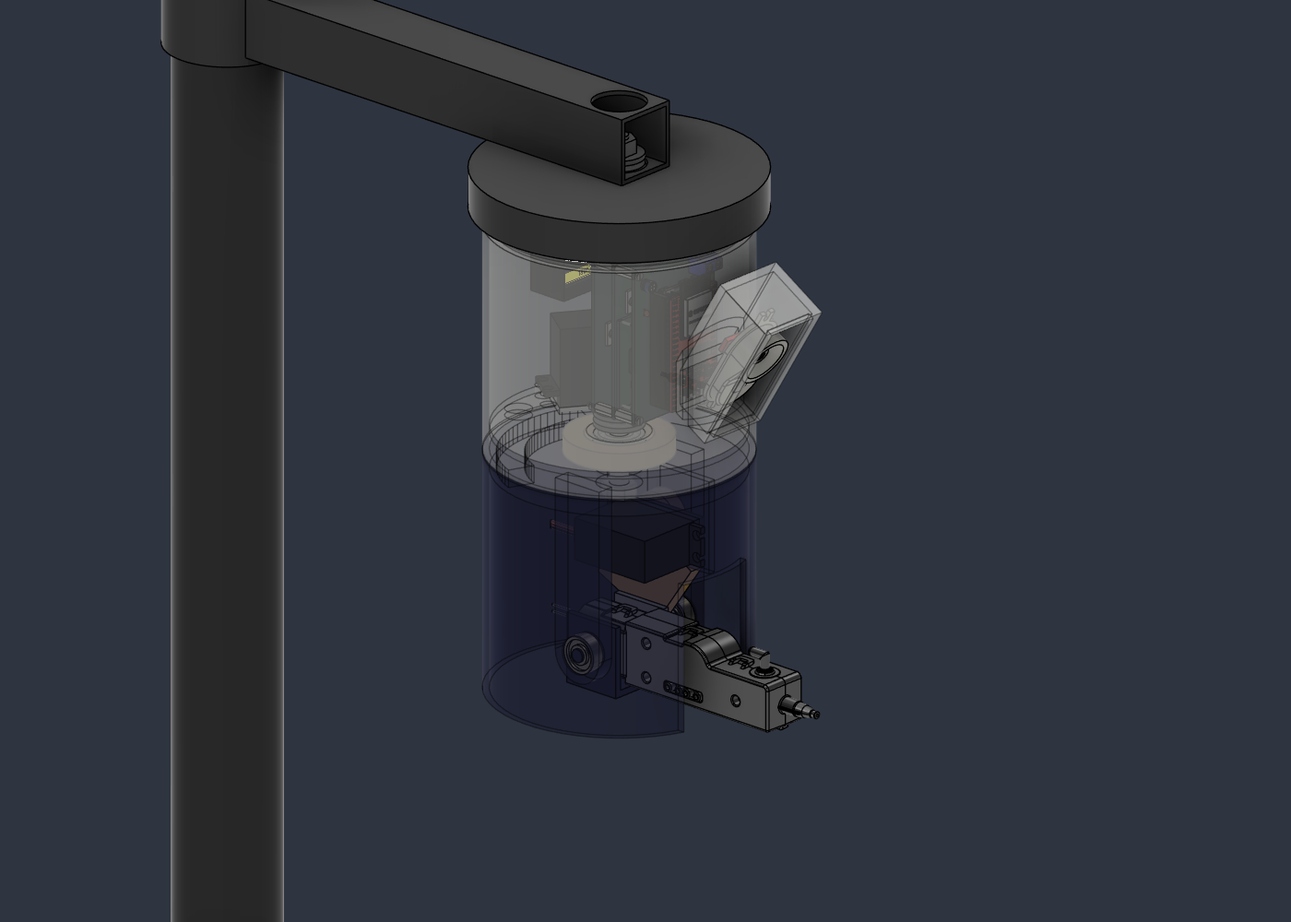
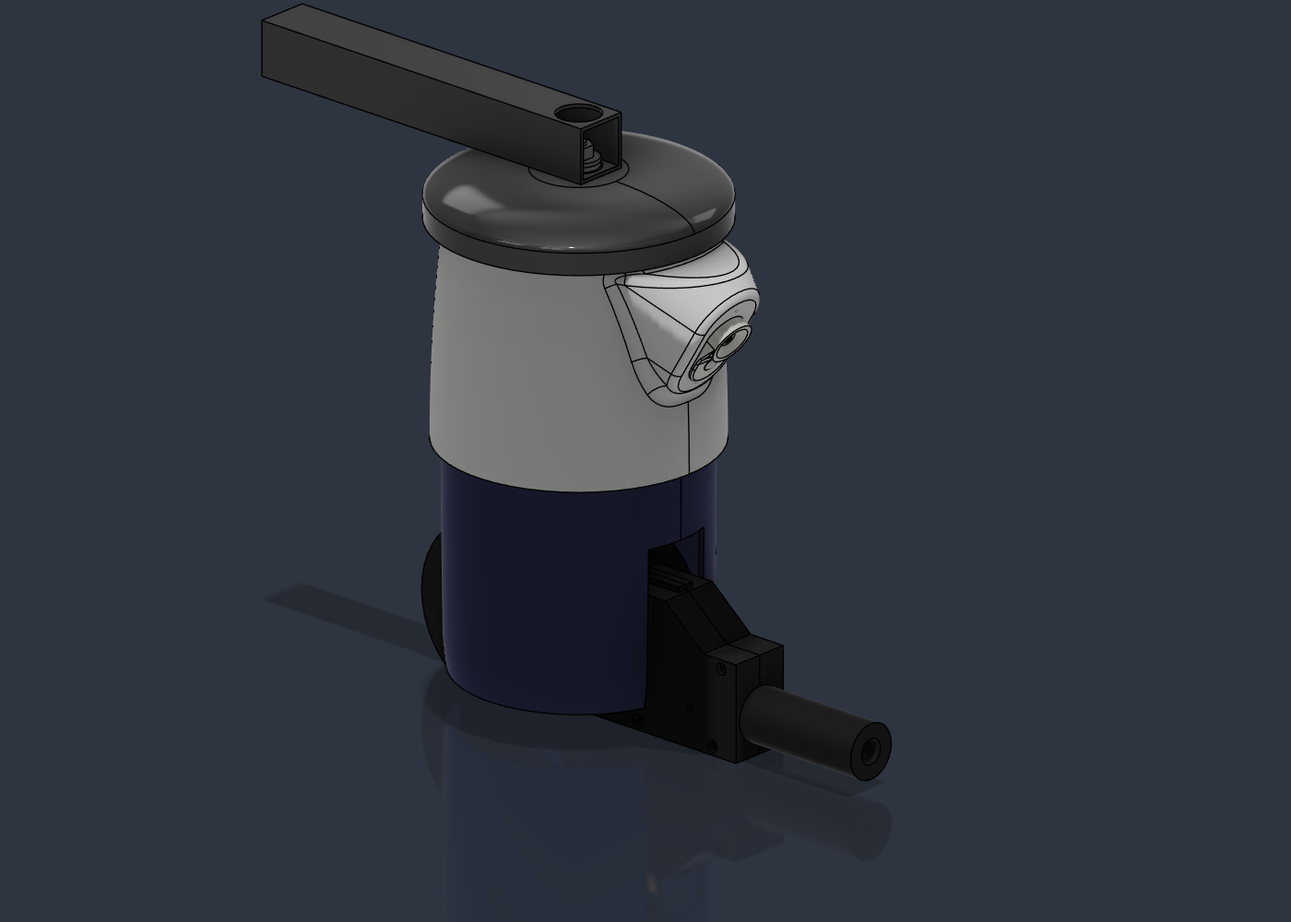
Docs: water tower de una sola barriga (sombrero Ø156, cuerpo Ø149, tambor Ø138), soporte de la pistola para los dos kits de Bambu Lab, sema en una placa paralela dentro de un morro 20 mm más adelante y renders nuevos

Changed region(s): [[0.1843, 0.0, 0.7064, 0.868], [0.1229, 0.0, 0.2457, 1.0]]

diff --git a/3D/water-tower/README.md b/3D/water-tower/README.md
@@ -1,11 +1,16 @@
 # water tower — prototipo "farola"
 
-Diseño de Fusion **`water tower prototipo`**, en el proyecto *water tower* (junto a las piezas que usa: `torreta placas`, `sema`, 3 × `DM996 diymore`, `Electric Water Spray Kit 02`, rodamientos y tornillería).
+Diseño de Fusion **`water tower prototipo`**, en el proyecto *water tower* (junto a las piezas que usa: `sema`, 3 × `DM996 diymore`, `Electric Water Spray` con el Kit 01 y el Kit 02, rodamientos y tornillería). Tiene la columna colgada del brazo y los componentes ocultos `Campo de visión cámara` y `Alcance pistola`.
+
+Para que pese menos, las placas van en el componente `Torreta placas (simple)`: es una copia de `torreta placas` en la que la Freenove solo conserva las piezas de más de 2 mm (placa, módulo, pines, conectores y USB-C). Las placas de pistola, servos y control, el TPS63020 y la tornillería van enteras. La torre pasa de 799 a 176 cuerpos. Si cambia `torreta placas`, la copia no se entera: hay que volver a sacarla.
+
+El conjunto final es el diseño **`huerta`**, en la misma carpeta: el poste, la huerta, la valla y las referencias de la vista de la cámara, con `water tower prototipo` metido como referencia en su sitio. Para trabajar en la columna se abre `water tower prototipo`, que pesa mucho menos; `huerta` se pone al día con *Actualizar referencias*.
 
 | | |
 | --- | --- |
 | <img src="img/render-iso.png" width="420" alt="Prototipo colgado del brazo"> | <img src="img/render-abajo.png" width="420" alt="Prototipo visto desde abajo"> |
-| <img src="img/render-lado.png" width="420" alt="De lado, con el tambor transparente: torreta y sema arriba, pistola y DM996 de tilt abajo"> | <img src="img/render-dentro.png" width="420" alt="Desde abajo con el tambor transparente: M8, DM996 de tilt y cuna de la pistola"> |
+| <img src="img/render-lado.png" width="420" alt="De lado, con el tambor transparente: torreta y sema arriba, soporte de la pistola y DM996 de tilt abajo"> | <img src="img/render-dentro.png" width="420" alt="Desde abajo con el tambor transparente: M8, DM996 de tilt y soporte de la pistola"> |
+| <img src="img/render-atras.png" width="420" alt="Desde atrás: la cola del soporte asoma por la ranura de detrás del tambor"> | |
 
 ## Dónde va
 
@@ -17,31 +22,34 @@ El poste va desplazado a la derecha para que la pistola llegue a la esquina de l
 
 ## Cómo está montado
 
-Es una columna de Ø116 × 227 mm colgada del brazo: arriba el **cuerpo** con la electrónica y debajo el **tambor** con la pistola, del mismo diámetro. El cuerpo hace de techo de la pistola.
+Es una columna de 257 mm de alto colgada del brazo: arriba el **cuerpo** (Ø149 abajo) con la electrónica y debajo el **tambor** (Ø138 arriba) con la pistola. El cuerpo y el plato del tambor hacen de techo de la pistola.
+
+Las tres piezas van de mayor a menor hacia abajo y encajan unas dentro de otras como tejas, para que la lluvia no entre por las juntas: el ala del sombrero (Ø156) baja 15 mm por fuera de la boca del cuerpo (Ø132), y el faldón del cuerpo (Ø149) baja 15 mm por fuera de la boca del tambor (Ø138). El agua que cae por una pieza gotea por fuera de la de abajo. El cuerpo y el tambor no son cilindros: sus paredes son revoluciones de 3 mm y juntos forman **una sola barriga**, con lo más ancho en la junta: el cuerpo se abre hacia abajo y el tambor se cierra hacia abajo.
 
 - **Soporte fijo (farola):**
-  - Poste Ø48 y brazo de tubo cuadrado de 30.
-  - Un *sombrero* Ø128 con faldón tapa los engranajes del pan.
-- **Cuerpo (pan del conjunto):** Ø116 × 118 mm.
-  - Dentro, delante, va la torreta de placas en vertical.
-  - La `sema` va **delante de la torreta**, inclinada `cam_inclinacion` (31°), y asoma 42 mm fuera del cilindro dentro de un *morro*. El morro tiene la ventana de la lente y del PIR en la cara de delante. Así la electrónica y la cámara quedan juntas delante y luego se puede cerrar todo en un recinto.
+  - Poste Ø48 (en el diseño `huerta`) y brazo de tubo cuadrado de 30.
+  - Un *sombrero* de Ø156 tapa los engranajes del pan. Es plano arriba hasta R25 (donde apoyan el brazo y el axial), cae en curva hasta el ala y el ala baja hasta 16 mm por debajo de su cara de abajo. Por dentro queda a 9 mm de la boca del cuerpo.
+- **Cuerpo (pan del conjunto):** 133 mm de alto. Es la mitad de arriba del barril: Ø132 arriba, donde entra en el sombrero, y se abre en una curva sin cintura hasta Ø149 en el faldón, lo más ancho. La tapa entra por arriba y apoya en un escalón.
+  - Dentro, delante, va la torreta de placas en vertical. Va tan adelante que la Freenove se mete en el hueco del morro, a 4,9 mm de su pared, y así sigue a la misma distancia de la `sema`.
+  - La `sema` va **delante de la torreta**, inclinada `cam_inclinacion` (31°), y asoma fuera de la pared dentro de un *morro*. Como en la caja de la cámara (`cam/interior`), la `sema` entra por detrás en una **placa plana paralela a ella**: la pestaña apoya en la cara de dentro, lo de delante asoma por una ventana en estadio (R12,6, la de `case v2`) y dos agujeros ciegos de Ø2,2 recogen sus tornillos. La placa es un estadio de 42 × 73 mm a 31° y queda casi entera fuera del barril: solo su borde de abajo entra ≈1,5 mm, y ahí un rebaje poco profundo, abierto 20° hacia delante, la deja al aire. Arriba la placa sobresale unos 43 mm y el morro llega a 111 mm del eje, 33 mm más allá del ala del sombrero. El morro se abre 20° desde la placa hacia la pared y no tiene cantos vivos: la placa, el rebaje y el techo tienen el borde redondeado R5, la unión con el cuerpo es de R10 y la pared de 3 mm sigue los redondeos. El techo del morro queda a 18,5 mm bajo el sombrero. Así la electrónica y la cámara quedan juntas delante y luego se puede cerrar todo en un recinto.
   - La faja de la cámara va del conector de la Freenove a la `sema`: en línea recta son 34 mm, y la faja mide 75.
   - El DM996 del pan va detrás de la torreta, colgado de la tapa. Su piñón (z20) rueda alrededor del engranaje fijo (z30) del sombrero. Con 180° de servo da ±60°, y para que la cámara vea toda la huerta hace falta de −31° a +57° (ver [Qué ve la cámara](#qué-ve-la-cámara-a-3-m)).
   - Como el servo gira con el cuerpo, no hace falta anillo rozante.
-  - Por debajo del suelo, la pared del cuerpo baja 8 mm más como faldón y tapa los engranajes del pan de la pistola.
-- **Tambor de la pistola (pan de la pistola):** Ø116 × 100 mm, abierto por abajo.
+  - Por debajo del suelo, la pared del cuerpo baja 24 mm más como faldón: tapa los engranajes del pan de la pistola y los 15 mm de arriba del tambor.
+- **Tambor de la pistola (pan de la pistola):** Ø138 × 138 mm, abierto por abajo. El diámetro y el alto los pide el soporte de la pistola, para que no lleve muescas (ver [Soporte de la pistola](#soporte-de-la-pistola)).
+  - Es la mitad de abajo del barril: arriba mide Ø138 y entra 15 mm en el faldón del cuerpo, y se va cerrando sin quiebros hasta Ø136 en el eje de tilt (lo que pide el sector) y Ø132 en el borde de abajo.
   - Cuelga del suelo del cuerpo por un M8 y gira sobre el mismo eje que el conjunto.
   - El DM996 del pan de la pistola va en el cuerpo, boca abajo sobre el suelo, y saca el eje por una ventana del suelo. Su piñón (z21) mueve el engranaje z48 que el tambor lleva sobre su plato. Da ±39°.
   - Va girado de modo que el cuerpo del servo queda hacia atrás, a lo largo de la pared, y no hacia el eje: así queda a 12,6 mm del axial y a 12,8 del 22-8-7 (con el servo recto quedaba a 1 mm).
-  - Delante tiene una ranura de 39 mm de ancho (`pist_ranura`) por la que asoma la boquilla y que deja subir y bajar la pistola. Llega hasta 45 mm por encima del eje de tilt y deja unos 7 mm a cada lado de la pistola, para un envoltorio.
+  - Delante tiene una ranura de 41 mm de ancho (`pist_ranura`) por la que asoma el soporte de la pistola. Llega hasta 64 mm por encima del eje de tilt, para que el riel no toque el borde con la pistola 15° hacia arriba.
+  - Detrás tiene otra ranura de 41 mm (`pist_ranura_atras`) por la que asoma la cola del soporte. Va del fondo del tambor hasta el plato, porque la cola sube al bajar el morro.
   - Hay un pasacables en arco en el plato (±48°) para la manguera y los cables.
 - **Pistola (tilt):**
-  - Va en una cuna que gira en dos 17-6-6 en los brazos del tambor. Está centrada con la cámara: la boquilla queda en el mismo plano vertical que la lente.
+  - Va en un soporte con forma de arma que sirve para los dos kits de Bambu Lab y está dibujado dentro de `Electric Water Spray` (ver [Soporte de la pistola](#soporte-de-la-pistola)). Gira en dos 22-8-7 en los brazos del tambor (ojos de Ø30) y está centrado con la cámara: la boquilla queda en el mismo plano vertical que la lente.
   - El DM996 de tilt va tumbado encima de la pistola, entre los dos brazos, con el eje sobre el eje de tilt. Cuelga del plato por un soporte con ventana, como en el brazo de smart-sentry.
-  - Mueve un sector z72 de la cuna con un piñón z24 (3:1), como el sector de tilt de smart-sentry. Da 60° de recorrido: de 15° hacia arriba a 45° hacia abajo.
-  - El servo va 48 mm por encima del eje (`a_tilt`) para dejar sitio a un envoltorio de la pistola. En todo el recorrido, la pistola queda como mínimo a 13,8 mm del servo (en los dos extremos) y a 24 mm con la pistola horizontal.
-  - Sin contar el servo, la pistola podría girar de unos 27° hacia arriba (toca el borde de arriba de la ranura) a 72° hacia abajo (toca el servo).
-  - El eje de tilt pasa por el bloque del motor, así la parte de atrás apenas sube al bajar la boquilla.
+  - Mueve un sector z117 del soporte con un piñón z47 (2,49:1), como el sector de tilt de smart-sentry. Da 60° de recorrido, de 15° hacia arriba a 45° hacia abajo, con 149° de servo. El sector solo tiene dientes de 70° a 140°: el piñón engrana de 75° a 135° y así las puntas no tocan la pared del tambor.
+  - El servo va 82 mm por encima del eje (`a_tilt`), lo bastante lejos para que la cola del soporte pase por debajo a +45° sin recortarla: queda a 3 mm del servo. El piñón queda 1,5 mm por debajo del plato, y eso es lo que fija el alto del tambor (`pist_caida` 108 mm).
+  - Con 3:1 (z123/z41) haría falta un tambor de Ø142, porque las puntas del sector tocarían la pared.
 
 Los engranajes son cilindros con el **diámetro primitivo** (m·z), de modo que los de cada pareja se tocan justo en la línea de engrane.
 
@@ -66,9 +74,36 @@ En smart-sentry el axial está entre la base y la parte que gira porque el peso 
 | --- | --- | --- | --- |
 | Pan del conjunto | 30 / 20 | 1,5:1 | ±60° |
 | Pan de la pistola | 48 / 21 | 2,29:1 | ±39° |
-| Tilt de la pistola | 72 / 24 (sector) | 3:1 | 60° (−15° / +45°) |
+| Tilt de la pistola | 117 / 47 (sector) | 2,49:1 | 60° (−15° / +45°) con 149° |
 
 La pistola apunta a la suma de los dos pan: ±99° respecto al brazo. La huerta queda entre −67° y +84°, así que el giro sobra. Lo que limita es el alcance del chorro (ver [Hasta dónde llega la pistola](#hasta-dónde-llega-la-pistola)).
+
+### Soporte de la pistola
+
+El diseño `Electric Water Spray` lleva el [Kit 01 y el Kit 02](../../esphome/docs/bambulab-water-spray-kits.md) superpuestos, con la boquilla en el mismo sitio, y el soporte está dibujado ahí mismo, en el componente `Soporte pistolas`. La torre inserta `Electric Water Spray` directamente en la raíz, sin componente intermedio: la articulación `Tilt pistola (DM996)` va de `Electric Water Spray` al tambor, y el círculo del eje está en un boceto del tambor (`eje tilt pistola`). Para cambiar el soporte se edita `Electric Water Spray` y luego se actualiza la referencia en la torre.
+
+El soporte sirve para los dos kits: se monta uno u otro sin cambiar nada más. El origen de `Soporte pistolas` está en el eje de tilt, con X hacia delante (por donde sale el agua) y Z hacia arriba.
+
+| | |
+| --- | --- |
+| <img src="img/soporte-pistola-lado.png" width="420" alt="Soporte de la pistola desde el lado del sector: cajón con riel, disco con el sector de tilt encima, cola redonda y cañón"> | <img src="img/soporte-pistola-atras.png" width="420" alt="Soporte visto desde atrás: disco con el sector de tilt, joroba sobre el eje y salida de la manguera en la cola"> |
+| <img src="img/soporte-pistola-kit01.png" width="420" alt="Mitad −Y del soporte con el Kit 01 dentro, vista desde el lado del corte"> | <img src="img/soporte-pistola-kit02.png" width="420" alt="Mitad −Y del soporte con el Kit 02 dentro, vista desde el lado del corte"> |
+| <img src="img/soporte-pistola-tilt45.png" width="420" alt="De lado con la pistola 45° hacia abajo: la cola sube por detrás del DM996 de tilt sin tocarlo"> | |
+
+- **Forma:** un cajón de 35 mm de ancho con el guardamanos más bajo delante, un riel arriba, una joroba redonda sobre el eje y un cañón. El techo es plano a 38 mm sobre el eje desde el guardamanos hasta la cola, que es redonda y está achaflanada 2 mm arriba.
+- **Sin muescas:** la versión anterior tenía recortado todo lo que barrían el DM996 de tilt y el plato, y el motor del Kit 01 quedaba al aire. Ahora el tambor es más alto y más ancho y el servo va 20 mm más lejos del eje, así que la carcasa va entera. En todo el recorrido queda a 3 mm del servo y a 1,8 mm de sus cables, aunque salgan rectos hacia atrás.
+- **Cañón:** es una pieza aparte, un tubo de Ø30 × 75 mm. Se encaja en una espiga de Ø20 que sale 15 mm por delante de la carcasa, con 0,2 mm de holgura. Como la espiga está partida en las dos mitades, el cañón también las mantiene juntas por delante. El agua sale por un ánima de Ø14 y no toca el cañón: la boquilla acaba dentro de la espiga, 9,5 mm antes del ánima. Se puede pegar o dejar a presión.
+- **Posición de la pistola:** el eje de tilt queda 127,5 mm detrás de la punta de la boquilla y 15 mm por encima de ella. La boca del cañón queda 197 mm por delante del eje, y la cola sale 90 mm por detrás, por la ranura de detrás del tambor.
+- **Sector en la carcasa:** la mitad `+Y` lleva un disco de R53,5 que va de su cara de fuera hasta la cara de fuera del sector (16,5 mm) y baja hasta la cara de abajo. El sector de dientes (R58,5, de 70° a 140°) sale por encima del disco. Así el sector forma parte de la carcasa en lugar de colgar de un buje, y la mitad se imprime sin soportes. El disco no puede ser más grande: a esa distancia del centro, la pared del tambor queda a 55,4 mm del eje.
+- **Hueco de las dos pistolas:** es la unión de los dos kits con 0,5 mm de holgura. Cada kit queda a 0,34 mm o más de las paredes.
+- **Cómo se sujeta cada kit:**
+  - **Kit 01:** sus dos resaltes de Ø6 entran en dos alojamientos de una mitad. En la otra mitad, dos tornillos M3 se roscan en la pared y la punta entra en sus agujeros de Ø3.
+  - **Kit 02:** apoya contra la pared de delante. Tres tornillos M4 se roscan en las paredes y la punta entra en sus agujeros cónicos de Ø4,3. Sus dos pivotes de Ø4,5 entran en alojamientos.
+- **Manguera (5/3 mm):** las tomas de agua de los dos kits son espigas de Ø4 en el plano de la boquilla que miran hacia atrás, a 37–48 mm de la punta. Desde ahí, un canal de 7 mm de ancho sube por delante del Kit 01, pasa por encima de los kits y sale hacia atrás por la cola. Va partido entre las dos mitades.
+- **Sin agujeros para cables:** se resolverá más adelante por dónde salen.
+- **Dos mitades**, partidas en el plano vertical de la boquilla (`Carcasa -Y` y `Carcasa +Y (sector)`). Cada mitad lleva su eje de Ø8 para el 22-8-7, y la `+Y` lleva también el disco y el sector. Se cierran con cinco tornillos M3: la cabeza va en la mitad `-Y` y la tuerca en la `+Y`. Donde está el disco, el alojamiento de la tuerca lo atraviesa.
+- **Impresión:** las dos mitades se imprimen de pie, sobre la cara de abajo, que es plana. Así el hueco de los kits queda abierto de lado, y el disco y el sector suben desde la cama sin soportes. La espiga del cañón y los ejes salen en horizontal, pero son pequeños.
+- **El cañón casi no sale en la imagen de la cámara:** solo a −15° tapa el 5 % de abajo (ver [La imagen de la cámara](#la-imagen-de-la-cámara)). La carcasa no sale nunca.
 
 ## Cambiar cosas
 
@@ -79,33 +114,38 @@ Todo está en *Modificar → Cambiar parámetros*:
 | `modulo` | 1 mm | Diámetro de todos los engranajes y distancias entre ejes |
 | `z_fijo`, `z_pinon` | 30, 20 | Pan del conjunto (`a_pan` se recalcula sola) |
 | `z_eng_pist`, `z_pin_pist` | 48, 21 | Pan de la pistola (`a_pist`) |
-| `z_eng_tilt`, `z_pin_tilt` | 72, 24 | Tilt de la pistola (`a_tilt`) |
+| `z_eng_tilt`, `z_pin_tilt` | 117, 47 | Tilt de la pistola (`a_tilt`) |
+| `cuerpo_d`, `cuerpo_cuello_d`, `cuerpo_faldon_d` | 149, 132, 149 mm | Cuerpo abajo (lo más ancho), arriba y faldón (= `cuerpo_d`) |
+| `tambor_d`, `tambor_cuello_d` | 136, 138 mm | Tambor en el eje de tilt y en la boca (lo más ancho) |
 | `casquillo_d`, `buje_rod_d` | 12, 28 mm | Casquillos de los 22-8-7 y buje del 22-8-7 bajo el suelo |
 | `plato_esp` | 8 mm | Grosor del plato del tambor |
-| `pist_caida` | 78 mm | Del plato del tambor al eje de tilt |
-| `pist_ranura` | 39 mm | Ancho de la ranura del tambor por la que asoma la pistola |
+| `pist_caida` | 108 mm | Del plato del tambor al eje de tilt |
+| `pist_ranura` | 41 mm | Ancho de la ranura del tambor por la que asoma el soporte de la pistola |
+| `pist_ranura_atras` | 41 mm | Ancho de la ranura de detrás del tambor por la que asoma la cola del soporte de la pistola |
 | `pist_y` | 0 mm | Desplazamiento de la pistola hacia un lado (0: centrada con la cámara) |
-| `pist_eng_y` | 22.5 mm | Cara interior del sector de tilt; deja sitio al DM996 de tilt entre los brazos |
-| `pist_mejilla`, `pist_brazo_esp` | 13.5, 8 mm | Anchura de la cuna y grosor de los brazos |
-| `sombrero_d`, `sombrero_esp` | cuerpo_d + 12, 10 mm | Sombrero (su grosor aloja el 22-8-7) |
+| `pist_eng_y` | 27 mm | Cara interior del sector de tilt; deja sitio al DM996 de tilt entre los brazos |
+| `pist_mejilla`, `pist_brazo_esp` | 18, 8 mm | Media anchura del soporte de la pistola (mide 35 mm) y grosor de los brazos |
+| `sombrero_d`, `sombrero_esp` | 156, 10 mm | Ala del sombrero y alto de su parte plana (aloja el 22-8-7) |
 | `brazo_largo`, `poste_d` | 200, 48 mm | Farola |
 
 Hay cosas que no siguen a los parámetros:
 
 - **Piezas insertadas:** los servos, la pistola, las placas y la cámara. Si cambias los dientes, hay que mover a mano el servo correspondiente para que su eje caiga en el centro del piñón.
-- **Lo que depende de la torreta, la `sema` y los servos:** su posición, `cuerpo_d`, `caja_fondo`, el morro y la ventana. Se calcularon al generar el modelo, así que cambiar `cam_inclinacion` o los dientes no basta: hay que volver a generarlo.
+- **El soporte de la pistola:** está en `Electric Water Spray`, con medidas fijas. Los ejes y el sector usan `modulo`, `z_eng_tilt`, `pist_eng_y`, `ancho_pist`, `pist_brazo_in`, `pist_brazo_in_n` y `pist_brazo_esp`, pero son **copias** de los de la torre en los parámetros de `Electric Water Spray`: si se cambian aquí, hay que cambiarlos también allí.
+- **Lo que depende de la torreta, la `sema` y los servos:** su posición, `caja_fondo`, el morro y la ventana. Se calcularon al generar el modelo, así que cambiar `cam_inclinacion` o los dientes no basta: hay que volver a generarlo.
+- **Los perfiles curvos** del sombrero, el cuerpo y el tambor son splines calculadas con los diámetros de la tabla al generarlos: cambiar `cuerpo_d`, `tambor_d` o `sombrero_d` no los mueve.
 
 Las tres articulaciones (`Pan conjunto` ±60°, `Pan pistola` ±39°, `Tilt pistola` −15°/+45°, positivo hacia abajo) se pueden arrastrar para comprobar los barridos.
 
-Se comprobaron las colisiones en el centro, en los dos extremos y en dos poses cruzadas, sin la Freenove. Solo se solapan los ejes de los servos con sus piñones, que es lo esperado.
+Se comprobaron las colisiones en el centro, en los dos extremos y en dos poses cruzadas, sin la Freenove. Solo se solapan los ejes de los servos con sus piñones, que es lo esperado. El tilt se ha barrido cada 5° de −15° a +45° con el soporte y los dos kits, ya con el tambor más grande. El soporte queda a 3 mm del servo y a 1,8 mm de sus cables, que en el modelo salen rectos hacia atrás. Con el tambor deja 1,5 mm (el disco del sector con la pared), salvo a +45°: ahí la mitad `+Y` pasa de lado a 0,5 mm de la placa que sujeta el DM996 de tilt. Los kits quedan a 5,7 mm o más del plato.
 
-Lo que más se acerca a la pared del cuerpo o del tambor (radio interior 55 mm): la torreta a 54 mm, el DM996 del pan de la pistola a 50,3, la cola de la pistola a 46,1 y el DM996 de tilt a 42,3.
+Lo que más se acerca a la pared del cuerpo (radio interior de 63 mm arriba a 71,5 en el faldón): la torreta, que entra en el morro y queda a 4,9 mm de su pared, y el DM996 del pan de la pistola a 50,3. El tambor tiene de 66 a 63 mm de radio interior, de arriba abajo. El DM996 de tilt queda a 44,6 y la ranura del plato llega a 52. La `sema` toca la placa del morro solo con la pestaña. Entre el faldón del cuerpo y la boca del tambor quedan 2,5 mm de lado, y en los extremos de los dos pan el sombrero, el cuerpo y el tambor quedan a 1 mm o más.
 
 El componente oculto **Campo de visión cámara** dibuja los rayos de la cámara hacia el suelo.
 
 ## Qué ve la cámara a 3 m
 
-El componente fijo **Huerta** pone en el suelo (3 m bajo la lente) tres cosas:
+Los componentes de esta sección (`Huerta`, `Valla huerta` y `Referencias vista cámara`) están en el diseño `huerta`. El componente fijo **Huerta** pone en el suelo (3 m bajo la lente) tres cosas:
 
 - **Huerta** (verde): el contorno de `3D/huerta.STEP` con el poste en su sitio.
 - **Barrido cámara (pan ±60)** (azul): todo lo que llega a ver la cámara moviendo el pan del conjunto de un extremo a otro.
@@ -147,7 +187,7 @@ Estas vistas salen desde la lente, con la misma inclinación (31°) y el mismo c
 - **Arriba** llega a unos 17 m: el horizonte no entra en la imagen.
 - **Mirando al frente**, el borde de lejos de la huerta (6,6 m) queda a un tercio de la imagen desde arriba. Lo de encima es suelo de fuera. Ese margen hace falta a +55°, donde el extremo de la izquierda está a 16–18 m y queda cerca del borde de arriba.
 - **A −30°** entra la esquina de la derecha entera, con la valla en las dos caras.
-- **La pistola no sale en la imagen**: la boquilla queda 77° por debajo de la horizontal vista desde la lente, y el borde de abajo de la imagen está a 52°.
+- **El cañón de la pistola casi no sale en la imagen.** Solo con la pistola del todo hacia arriba (−15°) tapa el 5 % de abajo. Desde −10° no sale, y la carcasa no sale nunca. Antes de bajar el eje de tilt 30 mm tapaba el 24 % a −15° y salía hasta −5°.
 
 ## Hasta dónde llega la pistola
 
@@ -167,17 +207,18 @@ En las vistas de esta sección están apagadas las capas de la cámara.
 **Cómo se ha calculado:**
 
 - El chorro se trata como un tiro con rozamiento cuadrático, ajustado a las [medidas en banco](../../esphome/docs/bambulab-water-spray-kits.md#medidas-en-banco): desde 1,3 m cae a ~5 m a 0° y a ~7 m a 20° hacia arriba. Eso da 13 m/s de salida y k ≈ 0,15 /m.
-- La boquilla está a 2,85 m del suelo y 113 mm por delante del eje de tilt.
+- La boquilla está a 2,80 m del suelo y 128 mm por delante del eje de tilt.
+- Es el alcance medido con el Kit 02. El del Kit 01 no se ha medido.
 
 Las medidas se hicieron con la pistola en su carcasa de fábrica. Montada en la torreta, con otra manguera y otra alimentación, hay que volver a medirla.
 
 | Tilt | Cae a | Altura máxima del chorro |
 | --- | --- | --- |
-| −15° (arriba) | 7,8 m | 3,3 m |
-| 0° | 6,7 m | 2,85 m |
-| +15° | 5,1 m | 2,82 m |
-| +30° | 3,6 m | 2,79 m |
-| +45° (abajo) | 2,4 m | 2,77 m |
+| −15° (arriba) | 7,8 m | 3,25 m |
+| 0° | 6,7 m | 2,80 m |
+| +15° | 5,1 m | 2,77 m |
+| +30° | 3,6 m | 2,74 m |
+| +45° (abajo) | 2,4 m | 2,72 m |
 
 El chorro alcanza de **2,4 a 7,8 m** del eje en todo el giro:
 
@@ -206,12 +247,17 @@ Vista desde la cámara, la zona de tiro (morado) llega hasta unos 8 m. Mirando a
 ## Pendiente
 
 - Medir el alcance con la pistola ya en la torreta y recalcular la zona de tiro. Con el alcance de banco, la pistola cubre el 48 % de la huerta y no llega al extremo de la izquierda; para eso haría falta más presión u otro poste.
-- Sujeción de la pistola en la cuna: va apoyada en el fondo y entre las mejillas; falta una brida o un tornillo.
-- Recinto cerrado para la torreta y la `sema`: el morro ya envuelve la `sema`, pero ni su ventana ni el cuerpo son estancos.
+- Soporte de la pistola:
+  - Comprobar en la pieza impresa que los tornillos que hacen de pasador sujetan bien cada kit.
+  - Medir el alcance del Kit 01.
+  - A +45°, la mitad `+Y` pasa a 0,5 mm de la placa que sujeta el DM996 de tilt. Si roza, quitar algo de la placa por abajo.
+  - Por dónde salen los cables del soporte. La manguera sale hacia atrás por la cola y por la ranura de detrás del tambor; falta decidir por dónde sube al plato.
+  - Las imágenes del alcance de esta página y el componente `Alcance pistola` son de antes del soporte. La boquilla ha bajado 45 mm y ha avanzado 14 mm; la zona de tiro casi no cambia (los datos de las tablas ya son los nuevos).
+- Recinto cerrado para la torreta y la `sema`: el morro ya envuelve la `sema`, pero ni su ventana ni el cuerpo son estancos (falta una junta entre la pestaña de la `sema` y la placa).
 - Manguera y cables:
   - Entran por el pasacables de la tapa, bajan por el del suelo y pasan al tambor por el arco del plato.
   - Fuera del sombrero necesitan un bucle de holgura, porque el conjunto gira ±60°. Entre el suelo y el plato no hace falta: el arco del plato abarca ±48° y el tambor gira ±39°.
   - La pistola no aspira 3 m, así que el depósito tiene que ir arriba, junto al brazo.
-- Engranajes de módulo 1 con DM996: con el servo bloqueado, el par puede romper los dientes impresos del piñón de tilt (z24). En uso normal la carga es pequeña.
+- Engranajes de módulo 1 con DM996: con el servo bloqueado, el par puede romper los dientes impresos del piñón de tilt (z47). En uso normal la carga es pequeña.
 - El casquillo de la tapa (Ø12 con paso de 8,5) tiene paredes de 1,75 mm. Solo trabaja a compresión, pero conviene imprimirlo macizo.
-- Exterior: el sombrero tapa los engranajes del pan del conjunto, el faldón del cuerpo los de la pistola y el cuerpo hace de tejado del tambor. La ranura de delante del tambor y su fondo quedan abiertos.
+- Exterior: el sombrero tapa los engranajes del pan del conjunto y el faldón del cuerpo los de la pistola. Las juntas están solapadas 15 mm (ala del sombrero sobre la boca del cuerpo y faldón del cuerpo sobre la boca del tambor). Las ranuras de delante y de detrás del tambor y su fondo quedan abiertos.
